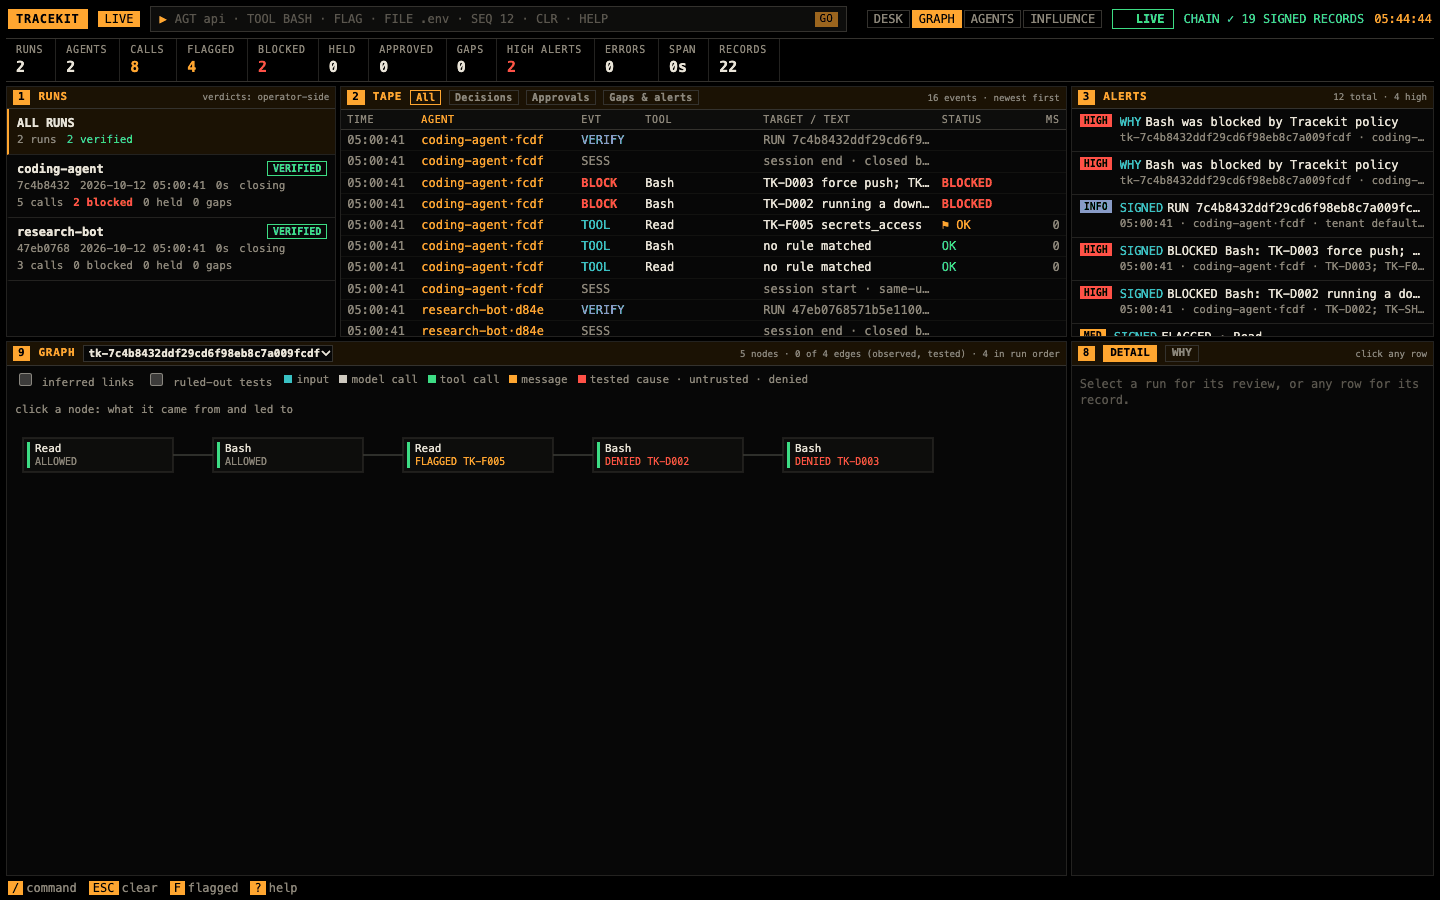
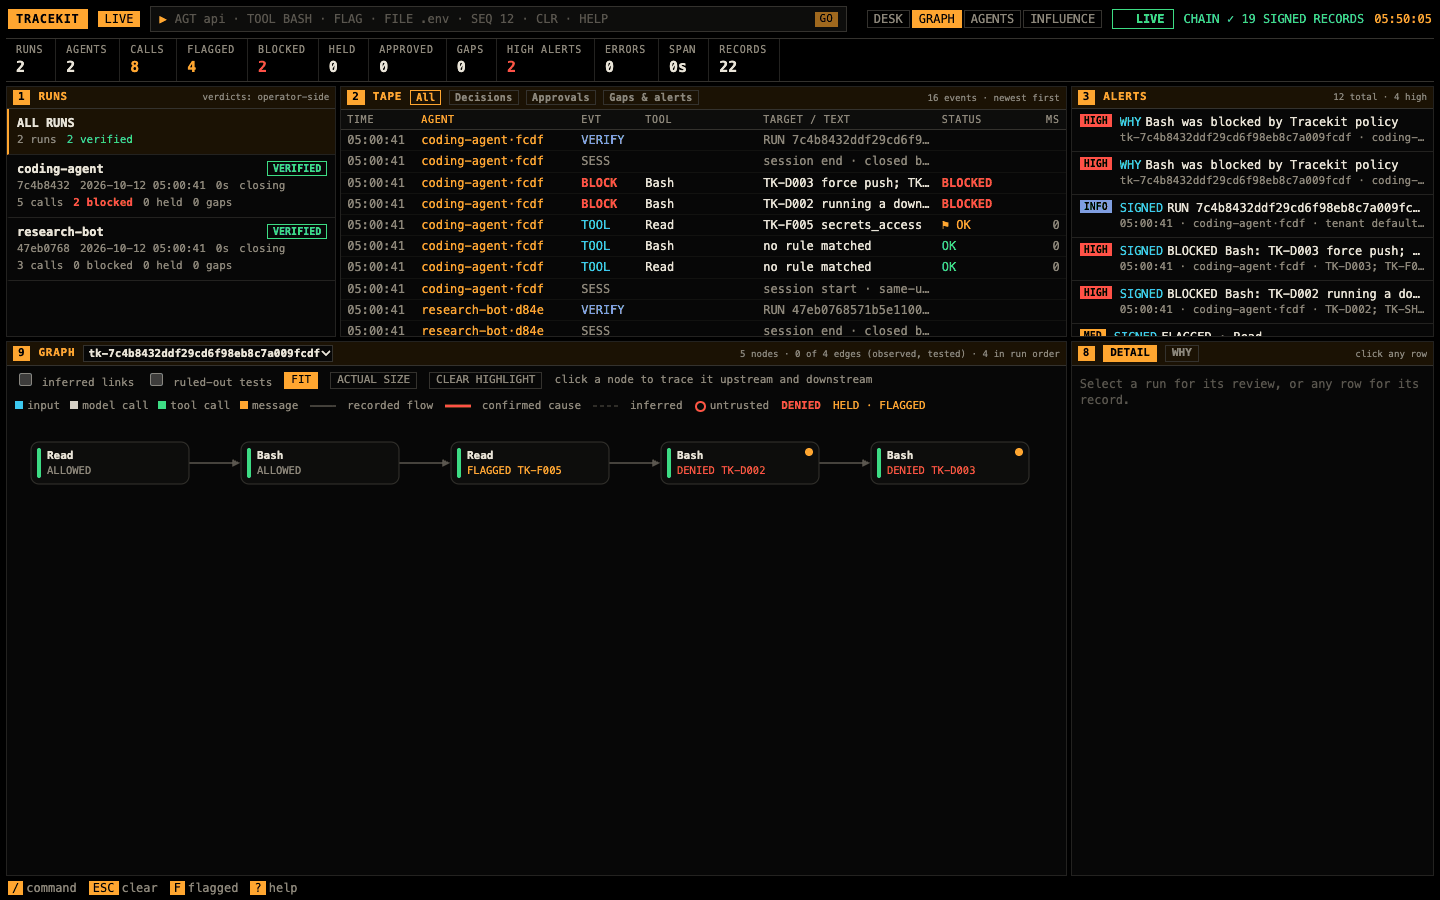
Viewer: GRAPH draws Causeway's flowchart
graphView ports Causeway's tGraph (app.html) into the GRAPH panel, in the
page's colours: rounded nodes with the type bar and "Type · agent", every
recorded flow an arrow, confirmed causes thick red arrows with their effect,
inferred links dashed, untrusted inputs outlined red, the dot on sensitive
calls, the legend with line samples, FIT (the default: shrinks to the panel,
never above 1x) or ACTUAL SIZE, CLEAR HIGHLIGHT. A click highlights upstream
and downstream and opens NODE in panel 8, which no longer narrows the graph.
Signed runs use the same renderer: tool calls chained in run order, each
marked with its signed decision. Panel 8's two columns no longer overflow a
narrow panel.

Refs #224

diff --git a/tracekit/ui/terminal.html b/tracekit/ui/terminal.html
@@ -630,7 +630,7 @@
 
     .v2 #detail {
       display: grid;
-      grid-template-columns: repeat(auto-fit, minmax(380px, 1fr));
+      grid-template-columns: repeat(auto-fit, minmax(min(380px, 100%), 1fr));
       align-content: start
     }
 
@@ -1083,8 +1083,24 @@
 
     .wv.wd main,
     .v2.wv.wd main {
-      grid-template-columns: minmax(250px, 1fr) minmax(0, 1.4fr) minmax(0, 1.9fr);
       grid-template-areas: "agents tape alerts" "whyv whyv detail"
+    }
+
+    .whyv .glegend svg {
+      display: inline-block;
+      vertical-align: middle;
+      margin-right: 4px
+    }
+
+    .gunt::before {
+      content: "";
+      display: inline-block;
+      width: 7px;
+      height: 7px;
+      margin-right: 4px;
+      border: 2px solid var(--red);
+      border-radius: 50%;
+      vertical-align: middle
     }
 
     /* a flowchart wider than its panel scrolls: a scrollbar that stays visible says there is more */
@@ -2150,7 +2166,7 @@
     /* ---------------- why logs (why.server.Store; docs/viewer.md#why) ---------------- */
     // WHY: /api/why/workspace; WD: why run id -> its detail (null while loading); VIEW: the lower panels' view
     let WHY = null, whyT = null, VIEW = "desk", WTAB = "detail", WRUN = null, WMSG = "", WBUSY = null, wvKey = "", WNODE = null;
-    const WD = new Map(), WTARGET = {}, WJOINT = new Set(), GV = { inferred: false, ruled: false, focus: null };
+    const WD = new Map(), WTARGET = {}, WJOINT = new Set(), GV = { inferred: false, ruled: false, focus: null, fit: true };
     const WTYPE = { input: "input", decision: "model call", action: "tool call", message: "message" };
     const WSTATUS = { confirmed: "PRIMARY CAUSE", contributing: "CONTRIBUTING", suppressive: "SUPPRESSES IT", inconclusive: "INCONCLUSIVE", untested: "NOT TESTED", "no-effect-seen": "NO EFFECT SEEN", "ruled-out": "RULED OUT" };
     const PSTATE = { unavailable: "unavailable (signer restarted: the run's untrusted-value index is kept in memory only)", truncated: "truncated (past 20000 untrusted values in the run, later ones are not tracked)" };
@@ -2312,7 +2328,7 @@
       if (VIEW === "desk") return;
       const runs = WHY.runs.map(r => r.run_id);
       if (!runs.includes(WRUN)) WRUN = whyRef(selected)?.run || (scope && Object.entries(WHY.calls).find(([k]) => k.startsWith(scope + "|"))?.[1][0]) || runs[0] || null;
-      const key = [VIEW, WRUN, WD.get(WRUN) ? 1 : 0, GV.inferred, GV.ruled, GV.focus].join("|");
+      const key = [VIEW, WRUN, WD.get(WRUN) ? 1 : 0, GV.inferred, GV.ruled, GV.focus, GV.fit].join("|");
       if (key === wvKey) return;
       wvKey = key;
       $("wvtitle").textContent = VIEW.toUpperCase();
@@ -2338,44 +2354,46 @@
       const ap = p.approval && p.approval.decision;
       return ap === "approve" ? ["APPROVED", "--green"] : ap ? [String(ap).toUpperCase(), "--red"] : DECIDED[p.decision] || [String(p.decision).toUpperCase(), "--muted"];
     }
+    const GTYPE = { input: "Input", decision: "Model call", action: "Tool call", message: "Message" };
+    // GRAPH: Causeway's flowchart (tGraph), in this page's colours
     function graphView(el, d) {
       const show = e => e.evidence === "observed" || (e.evidence === "inferred" && GV.inferred) || (e.evidence === "tested" && (e.verdict === "causal" || e.verdict === "suppressive" || GV.ruled));
-      const E = d.edges.filter(show), N = d.nodes, by = {}, depth = {}, cols = {}, pos = {}, lanes = d.agents.map(a => a.name);
+      const N = d.nodes, by = {}, depth = {}, cols = {}, lanes = d.agents.map(a => a.name);
       N.forEach(n => { by[n.id] = n; depth[n.id] = 0; });
       // a tool call nothing recorded flowing into follows the call before it (a signed run's calls): run order, not a cause
-      const order = [...N].filter(n => n.type === "action").sort((a, b) => a.seq - b.seq), into = new Set(d.edges.filter(e => e.evidence === "observed").map(e => e.dst));
-      const SEQ = order.flatMap((n, i) => i && !into.has(n.id) ? [{ src: order[i - 1].id, dst: n.id }] : []);
-      const flow = d.edges.filter(e => e.evidence === "observed").concat(SEQ);
+      const acts = N.filter(n => n.type === "action").sort((a, b) => a.seq - b.seq), into = new Set(d.edges.filter(e => e.evidence === "observed").map(e => e.dst));
+      const SEQ = acts.flatMap((n, i) => i && !into.has(n.id) ? [{ src: acts[i - 1].id, dst: n.id, kind: "next in the run", evidence: "observed" }] : []);
+      const E = d.edges.filter(show).concat(SEQ), flow = d.edges.filter(e => e.evidence === "observed").concat(SEQ);
       [...N].sort((a, b) => a.seq - b.seq).forEach(n => flow.forEach(e => { if (e.dst === n.id && by[e.src]) depth[n.id] = Math.max(depth[n.id], depth[e.src] + 1); }));
       N.forEach(n => (cols[depth[n.id]] = cols[depth[n.id]] || []).push(n));
       Object.values(cols).forEach(c => c.sort((a, b) => lanes.indexOf(a.agent) - lanes.indexOf(b.agent) || a.seq - b.seq));
-      const BW = 150, BH = 34, CX = 190, RY = 44, PAD = 16, maxr = Math.max(1, ...Object.values(cols).map(c => c.length));
-      const W = PAD * 2 + Math.max(0, Object.keys(cols).length - 1) * CX + BW, H = PAD * 2 + maxr * RY;
+      const BW = 158, BH = 42, CX = 210, RY = 58, PAD = 24, nc = Object.keys(cols).length, maxr = Math.max(1, ...Object.values(cols).map(c => c.length));
+      const W = PAD * 2 + (nc - 1) * CX + BW, H = PAD * 2 + maxr * RY, pos = {};
       Object.entries(cols).forEach(([c, arr]) => { const off = (maxr - arr.length) * RY / 2; arr.forEach((n, i) => pos[n.id] = [PAD + c * CX, PAD + off + i * RY]); });
-      const ends = (s, t) => [s[0] + BW, s[1] + BH / 2, t[0], t[1] + BH / 2];
-      const curve = ([x1, y1, x2, y2]) => `M${x1},${y1} C${(x1 + x2) / 2},${y1} ${(x1 + x2) / 2},${y2} ${x2},${y2}`;
-      const TC = { input: "--cyan", decision: "--magenta", action: "--green", message: "--amber" }, keep = GV.focus && by[GV.focus] ? reach(E.concat(SEQ), GV.focus) : null;
-      let svg = `<svg viewBox="${esc(`0 0 ${W} ${H}`)}" width="${esc(W)}" height="${esc(H)}">`;
-      SEQ.forEach((e, j) => { svg += `<path d="${esc(curve(ends(pos[e.src], pos[e.dst])))}" style="${esc(`fill:none;stroke:var(--faint);stroke-width:1.2${keep && !keep.edges.has(E.length + j) ? ";opacity:.12" : ""}`)}"><title>next in the run</title></path>`; });
+      const TC = { input: "--cyan", decision: "--magenta", action: "--green", message: "--amber" }, keep = GV.focus && by[GV.focus] ? reach(E, GV.focus) : null;
+      let svg = `<svg viewBox="${esc(`0 0 ${W} ${H}`)}" width="${esc(GV.fit ? "100%" : W)}" style="${esc(GV.fit ? `max-width:${W}px;min-width:${Math.min(W, 720)}px` : `height:${H}px`)}"><defs>`
+        + ["faint", "red", "blue"].map(k => `<marker id="ar-${esc(k)}" viewBox="0 0 8 8" refX="7" refY="4" markerWidth="6" markerHeight="6" orient="auto"><path d="M0,0L8,4L0,8z" style="${esc(`fill:var(--${k})`)}"/></marker>`).join("") + `</defs>`;
       E.forEach((e, i) => {
         if (!pos[e.src] || !pos[e.dst]) return;
-        const p = ends(pos[e.src], pos[e.dst]), cause = e.evidence === "tested" && e.verdict === "causal", sup = e.evidence === "tested" && e.verdict === "suppressive", ruled = e.evidence === "tested" && !cause && !sup;
-        const col = cause ? "var(--red)" : sup ? "var(--blue)" : "var(--faint)";
-        const style = `fill:none;stroke:${col};stroke-width:${cause || sup ? 2.5 : 1.2};${e.evidence === "inferred" ? "stroke-dasharray:5 4;" : ""}${ruled ? "stroke-dasharray:1 4;" : ""}${keep && !keep.edges.has(i) ? "opacity:.12" : ""}`;
-        svg += `<path d="${esc(curve(p))}" style="${esc(style)}"><title>${esc(`${e.kind} (${e.evidence})` + (e.effect != null ? " effect " + sgn(e.effect) : ""))}</title></path>`;
-        if (e.evidence === "tested") svg += `<text x="${esc(p[2] - 34)}" y="${esc(p[3] - 5)}" style="${esc(`fill:${col};font-size:10px`)}">${esc(sgn(e.effect))}</text>`;
+        const x1 = pos[e.src][0] + BW, y1 = pos[e.src][1] + BH / 2, x2 = pos[e.dst][0], y2 = pos[e.dst][1] + BH / 2, mx = (x1 + x2) / 2;
+        const cause = e.evidence === "tested" && e.verdict === "causal", sup = e.evidence === "tested" && e.verdict === "suppressive", ruled = e.evidence === "tested" && !cause && !sup;
+        const k = cause ? "red" : sup ? "blue" : "faint";
+        const style = `fill:none;stroke:var(--${k});stroke-width:${cause || sup ? 2.6 : 1.3};${e.evidence === "inferred" ? "stroke-dasharray:5 4;" : ""}${ruled ? "stroke-dasharray:1 4;" : ""}${keep && !keep.edges.has(i) ? "opacity:.13" : ""}`;
+        svg += `<path d="${esc(`M${x1},${y1} C${mx},${y1} ${mx},${y2} ${x2 - 2},${y2}`)}" style="${esc(style)}" marker-end="url(#ar-${esc(k)})"><title>${esc(`${e.kind} (${e.evidence})` + (e.effect != null ? ` effect ${sgn(e.effect)}` + (e.ci ? ` [${e.ci}]` : "") : ""))}</title></path>`;
+        if (e.evidence === "tested") svg += `<text x="${esc(x2 - 36)}" y="${esc(y2 - 6)}" style="${esc(`fill:var(--${k});font-size:11px;font-weight:700${keep && !keep.edges.has(i) ? ";opacity:.13" : ""}`)}">${esc(sgn(e.effect))}</text>`;
       });
       N.forEach(n => {
-        const [x, y] = pos[n.id], unt = n.trust === "untrusted" && n.type === "input", hl = n.id === GV.focus, dc = n.type === "action" && decided(n.policy);
-        const box = `fill:var(--panel2);stroke:${unt ? "var(--red)" : hl ? "var(--yellow)" : "var(--line2)"};stroke-width:${unt || hl ? 2 : 1}`;
-        const rule = dc && (n.policy.rule_ids || [])[0];
-        svg += `<g data-wnode="${esc(n.id)}" style="${esc("cursor:pointer" + (keep && !keep.nodes.has(n.id) ? ";opacity:.15" : ""))}" transform="${esc(`translate(${x},${y})`)}"><rect width="${esc(BW)}" height="${esc(BH)}" style="${esc(box)}"/><rect width="3" height="${esc(BH - 8)}" x="4" y="4" style="${esc(`fill:var(${TC[n.type] || "--muted"})`)}"/><text x="12" y="14" style="fill:var(--text);font-size:11px">${esc(String(n.label).slice(0, 20))}</text><text x="12" y="27" style="fill:var(--muted);font-size:10px">${dc ? `<tspan style="${esc(`fill:var(${dc[1]})`)}">${esc(dc[0] + (rule ? " " + rule : ""))}</tspan>` : ""}${esc(dc ? "" : `${WTYPE[n.type] || n.type} · ${n.agent}`)}</text><title>${esc(n.label + (dc ? ` · ${dc[0]} ${(n.policy.rule_ids || []).join(", ")}` : "") + ` · ${WTYPE[n.type] || n.type} · ${n.agent}`)}</title></g>`;
+        const [x, y] = pos[n.id], unt = n.trust === "untrusted" && n.type === "input", dc = n.type === "action" && decided(n.policy), rule = dc && (n.policy.rule_ids || [])[0];
+        svg += `<g data-wnode="${esc(n.id)}" style="${esc("cursor:pointer" + (keep && !keep.nodes.has(n.id) ? ";opacity:.13" : ""))}" transform="${esc(`translate(${x},${y})`)}"><rect width="${esc(BW)}" height="${esc(BH)}" rx="8" style="${esc(`fill:var(--panel2);stroke:${unt ? "var(--red)" : "var(--line2)"};stroke-width:${unt ? 2 : 1}`)}"/><rect width="4" height="${esc(BH - 12)}" x="6" y="6" rx="2" style="${esc(`fill:var(${TC[n.type] || "--muted"})`)}"/>`
+          + `<text x="16" y="17" style="fill:var(--text);font-size:11px;font-weight:600">${esc(String(n.label).slice(0, 20))}</text><text x="16" y="32" style="fill:var(--muted);font-size:10.5px">${dc ? `<tspan style="${esc(`fill:var(${dc[1]})`)}">${esc(dc[0] + (rule ? " " + rule : ""))}</tspan>` : ""}${esc(dc ? "" : `${GTYPE[n.type] || n.type} · ${n.agent}`)}</text>`
+          + `${n.sensitive ? `<circle cx="${esc(BW - 10)}" cy="10" r="4" style="fill:var(--amber)"><title>sensitive</title></circle>` : ""}<title>${esc(n.label + (dc ? ` · ${dc[0]} ${(n.policy.rule_ids || []).join(", ")}` : "") + ` · ${GTYPE[n.type] || n.type} · ${n.agent}`)}</title></g>`;
       });
       el.innerHTML = `<div class="wbar"><label><input type="checkbox" data-gv="inferred"${GV.inferred ? " checked" : ""}> inferred links</label><label><input type="checkbox" data-gv="ruled"${GV.ruled ? " checked" : ""}> ruled-out tests</label>
-        <span class="legend"><span style="--c:var(--cyan)">input</span><span style="--c:var(--magenta)">model call</span><span style="--c:var(--green)">tool call</span><span style="--c:var(--amber)">message</span><span style="--c:var(--red)">tested cause · untrusted · denied</span></span>
-        ${GV.focus ? `<button type="button" data-wnode="">CLEAR</button>` : `<span>click a node: what it came from and led to</span>`}</div>` + svg + `</svg>`;
+        <button type="button" data-gfit="1" class="${GV.fit ? "on" : ""}">FIT</button><button type="button" data-gfit="" class="${GV.fit ? "" : "on"}">ACTUAL SIZE</button><button type="button" data-wnode="">CLEAR HIGHLIGHT</button><span>click a node to trace it upstream and downstream</span></div>
+        <div class="wbar glegend"><span class="legend"><span style="--c:var(--cyan)">input</span><span style="--c:var(--magenta)">model call</span><span style="--c:var(--green)">tool call</span><span style="--c:var(--amber)">message</span></span>
+        <span><svg width="26" height="8"><line x1="0" y1="4" x2="26" y2="4" style="stroke:var(--faint);stroke-width:1.5"/></svg> recorded flow</span><span><svg width="26" height="8"><line x1="0" y1="4" x2="26" y2="4" style="stroke:var(--red);stroke-width:3"/></svg> confirmed cause</span><span><svg width="26" height="8"><line x1="0" y1="4" x2="26" y2="4" style="stroke:var(--faint);stroke-dasharray:4 3"/></svg> inferred</span><span class="gunt">untrusted</span><span class="s-deny">DENIED</span><span class="s-flag">HELD · FLAGGED</span></div>` + svg + `</svg>`;
       el.querySelector(`[data-wnode="${CSS.escape(GV.focus || "")}"]`)?.scrollIntoView({ block: "nearest", inline: "center" });
-      $("wvsum").textContent = `${N.length} nodes · ${E.length} of ${d.edges.length} edges (observed${GV.inferred ? ", inferred" : ""}, tested)` + (SEQ.length ? ` · ${SEQ.length} in run order` : "") + (W > el.clientWidth ? " · scroll →" : "");
+      $("wvsum").textContent = `${N.length} nodes · ${E.length - SEQ.length} of ${d.edges.length} edges (observed${GV.inferred ? ", inferred" : ""}, tested)` + (SEQ.length ? ` · ${SEQ.length} in run order` : "") + (!GV.fit && W > el.clientWidth ? " · scroll →" : "");
     }
     function cell(t) {
       return t ? `<span class="${t.verdict === "causal" ? "s-deny" : t.verdict === "suppressive" ? "s-run" : "dim"}" title="${esc(`${t.verdict} n=${t.n}`)}">${esc(sgn(t.effect))}</span>` : `<span class="dim">–</span>`;
@@ -2409,10 +2427,11 @@
       $("wvsum").textContent = `${I.sources.length} sources · ${I.outcomes.length} tools`;
     }
     document.addEventListener("click", e => {
-      const t = e.target.closest("[data-wtab],[data-view],[data-rseq],[data-wal],[data-wtest],[data-wfind],[data-wnode],[data-wopen],[data-wwhy],[data-wreach]"); if (!t) return;
+      const t = e.target.closest("[data-wtab],[data-view],[data-rseq],[data-wal],[data-wtest],[data-wfind],[data-wnode],[data-wopen],[data-wwhy],[data-wreach],[data-gfit]"); if (!t) return;
       e.preventDefault();
       if (t.dataset.wtab) { WTAB = t.dataset.wtab; return schedule(); }
       if (t.dataset.view) { VIEW = t.dataset.view; wvKey = ""; return schedule(); }
+      if (t.dataset.gfit !== undefined) { GV.fit = !!t.dataset.gfit; return schedule(); }
       if (t.dataset.wal) { const a = whyAlerts()[+t.dataset.wal]; return a && openWhy(a.run_id, a.node); }
       if (t.dataset.rseq) {   // a signed provenance source: the record of the same run that brought the value in
         const run = (selected?.pre || selected)?.session_id, r = ALL.find(r => r.session_id === run && r.v2?.run_seq === +t.dataset.rseq);

diff --git a/docs/viewer.md b/docs/viewer.md
@@ -90,8 +90,11 @@ The effect is the drop in how often the call happens, with its 95% interval.
 
 ![GRAPH with the planner's model call clicked: NODE shows its model, tokens, what it saw, what it produced, where it came from, what it led to and its record](viewer/graph-node.png)
 
-**GRAPH** (header buttons) draws the run's data flow: inputs (cyan), model calls (magenta), tool calls (green),
-messages (amber); a red border is untrusted content, a red line a tested cause with its effect. Click a node: the graph
+**GRAPH** (header buttons) draws the run's data flow as a left-to-right flowchart, as Causeway did: inputs (cyan),
+model calls (magenta), tool calls (green), messages (amber), each arrow a recorded flow; a red border is untrusted
+content, a thick red arrow a confirmed cause with its effect, a dashed one an inferred link, an amber dot a sensitive
+tool call. **FIT** (the default) shrinks a wide flowchart to the panel, never above actual size; **ACTUAL SIZE**
+scrolls; **CLEAR HIGHLIGHT** undoes a click. Click a node: the graph
 keeps what it came from and led to and fades the rest, and panel 8's **NODE** tab shows it in full: for a model call
 its model, time, tokens, what it saw (each a link) and what it produced; for a tool call its arguments, result,
 policy decision and a **WHY DID THIS HAPPEN?** button; for an input or a message its content and trust. **Came from**
@@ -108,8 +111,9 @@ tests.
 left to right in run order; each node carries its signed decision: **DENIED** (red), **HELD** or **FLAGGED** (amber),
 **APPROVED**, or ALLOWED (muted), with the first rule id. Click a node: NODE shows the decision, every rule with its
 reason, who approved, and the record it cites. A run's arguments are only a salted commitment, so WHY can list the
-path but not replay it. A flowchart wider than its panel scrolls sideways (`scroll →` in the panel's title), and a
-clicked node is scrolled into view.
+path but not replay it. With ACTUAL SIZE a flowchart wider than its panel scrolls sideways (`scroll →` in the
+panel's title), and a
+clicked node is scrolled into view. The legend's DENIED, HELD and FLAGGED are the marks on the nodes.
 
 ### AGENTS
 
